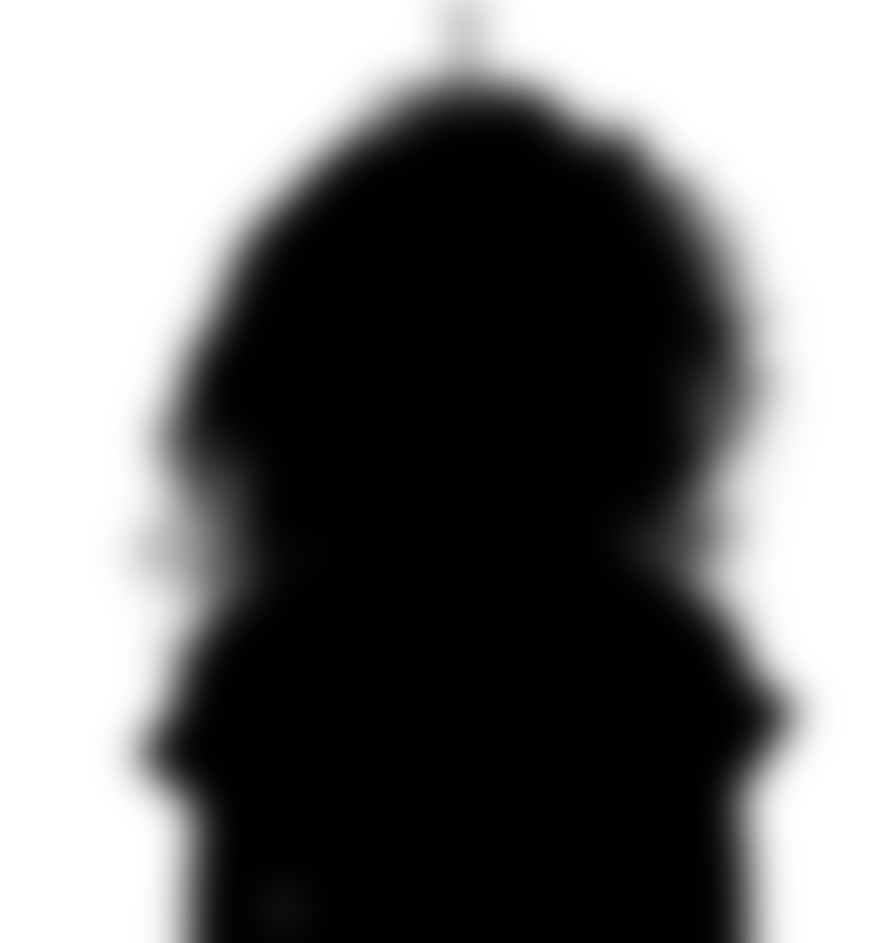
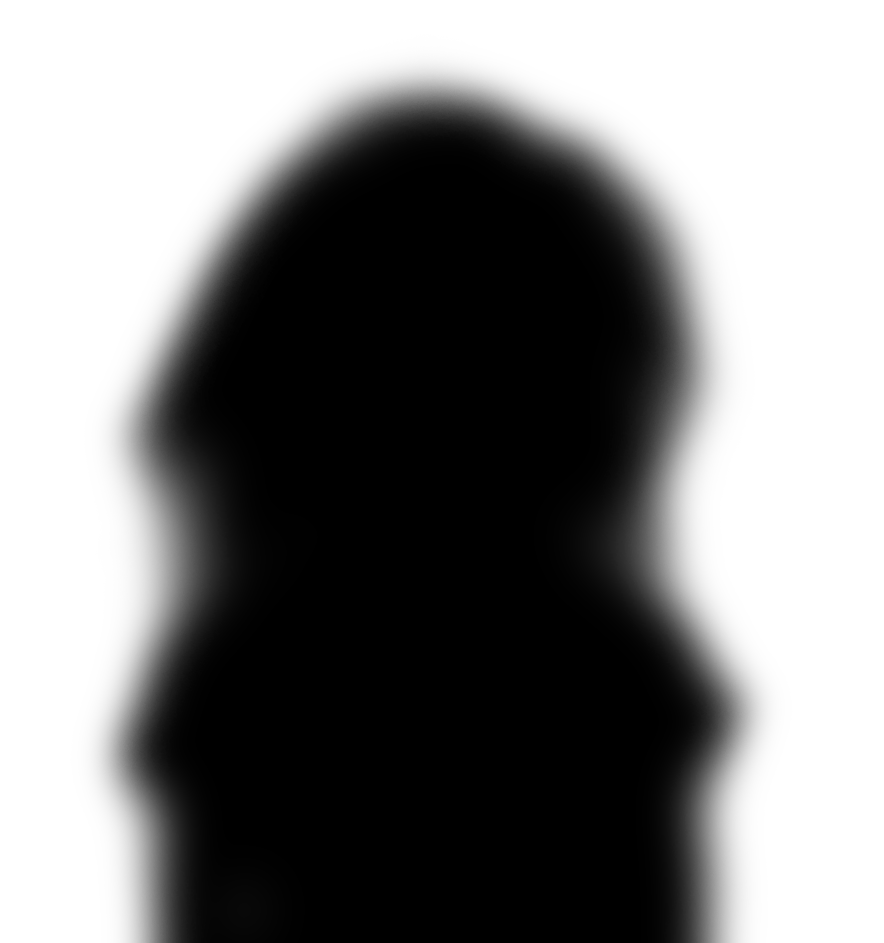
fix: shadow heroChars

Changed region(s): [[0.0916, 0.0, 0.9468, 1.0]]

diff --git a/src/components/HeroCharacter.tsx b/src/components/HeroCharacter.tsx
@@ -14,7 +14,7 @@ export const HeroCharacter = ({ char }: CharacterProps) => {
           <Image
             priority
             className={ShadowBox}
-            src="/images/heroGirlShadow.png"
+            src={`/images/hero${char}Shadow.png`}
             width={884}
             height={943}
             alt="sombra do personagem com uniforme da Escola Canarinho"
